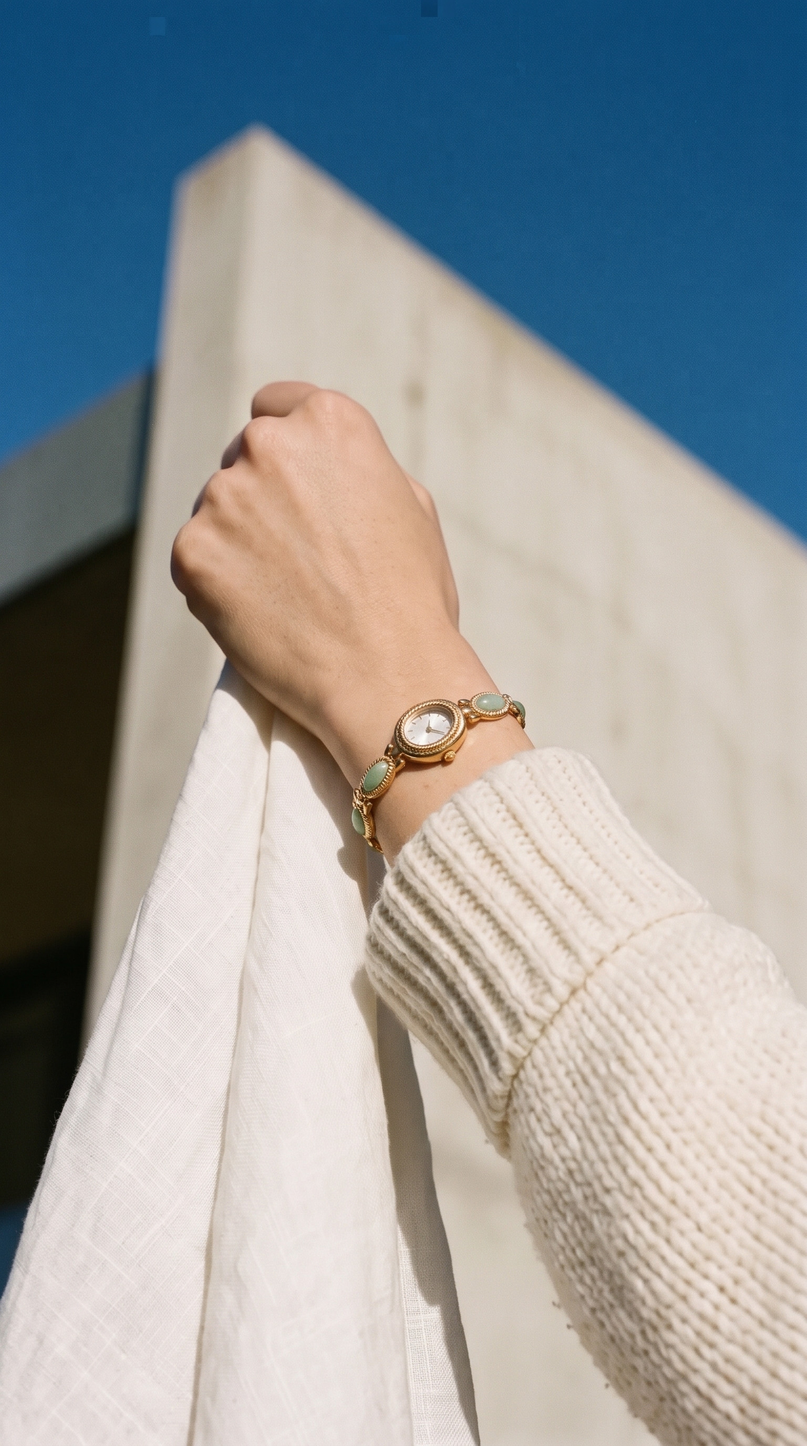
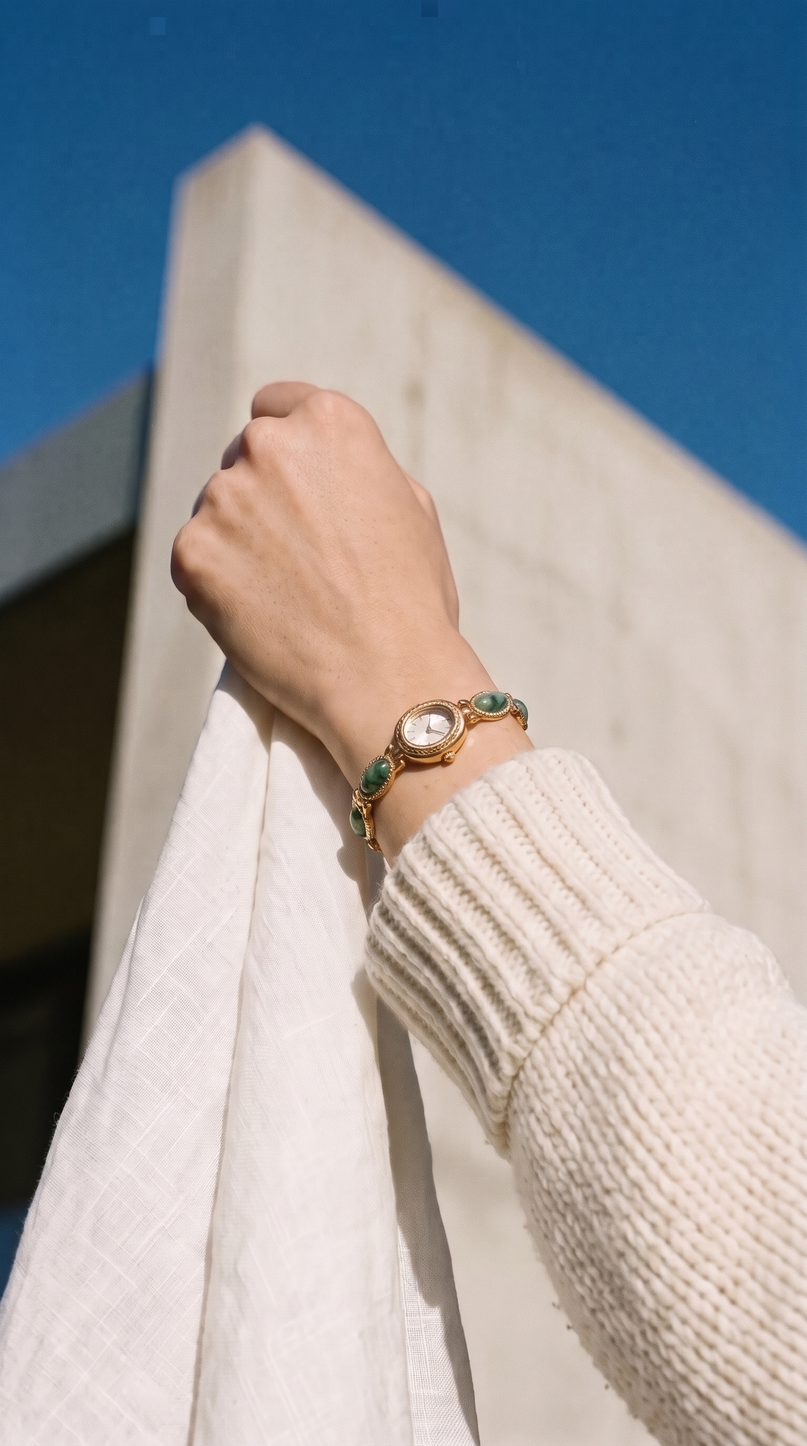
Piedras del Lune en verde medio-oscuro en todas las fotos (sin la crema) y NAIDU/QUARTZ de nuevo en el detalle

diff --git a/marca/esfera_texto.py b/marca/esfera_texto.py
@@ -1,7 +1,12 @@
+"""Escribe «NAIDU» y «QUARTZ» en la esfera de la foto de detalle (lune-verde-detalle), siguiendo su giro.
+    python marca/esfera_texto.py entrada.png salida.png   (C, v12 y u3 = centro y direcciones de esa foto)
+"""
 import cv2, numpy as np
 from PIL import Image, ImageDraw, ImageFont
 F = 'D:/LUNERIE/marca/fuentes/Jost.ttf'
-img = cv2.imread('prodD2.png')
+import sys
+ENT, SAL = (sys.argv[1], sys.argv[2]) if len(sys.argv) > 2 else ('prodD2.png', 'prodD3.png')
+img = cv2.imread(ENT)
 C = np.array([940., 1152.])                 # eje de las agujas
 v12 = np.array([1093., 1015.]) - C          # hacia las 12 (índice doble)
 u3 = np.array([1070., 1245.]) - C           # hacia las 3
@@ -33,5 +38,5 @@ out = img.astype(np.float32)
 for t, alto, peso, esp, k, al in (('NAIDU', 17, 500, 3.2, 0.42, 0.88), ('QUARTZ', 9, 400, 2.4, -0.47, 0.75)):
     a, col = texto(t, alto, peso, esp, C + k * v12, al)
     out = out * (1 - a) + col * a
-cv2.imwrite('prodD3.png', out.clip(0, 255).astype(np.uint8))
-Image.open('prodD3.png').crop((700, 700, 1400, 1450)).save('dial-detalle2.png')
+cv2.imwrite(SAL, out.clip(0, 255).astype(np.uint8))
+Image.open(SAL).crop((700, 700, 1400, 1450)).save('dial-detalle2.png')

diff --git a/CLAUDE.md b/CLAUDE.md
@@ -150,10 +150,12 @@
   (26-oct): modelo IA → **producto en niebla** → muñeca IA → **detalle** → **curva** → foto del proveedor → muñeca
   del proveedor → correa 18 cm; la de la modelo es la de la variante. Fotos de producto (`lune-verde-producto/
   detalle/curva.jpg`): la de niebla sale **editando la foto real del proveedor** (cambiar solo el fondo; así no
-  cambia el número de piedras) y las otras usan esa como referencia. **Cómo es el real:** 3 piedras a cada lado
-  (la del medio de arriba, color crema), en las puntas anillas trenzadas vacías (gancho + anilla arriba, anilla +
-  cierre abajo), piedras **verde jade claro con vetas blancas** (la IA tiende a malaquita oscura: corregirlo),
-  caja **ovalada** (la IA la hace redonda) y pequeña (esfera 12 mm). Edu prefiere la esfera **sin marca** en los
+  cambia el número de piedras) y las otras usan esa como referencia. **Cómo es el real:** 3 piedras a cada lado,
+  en las puntas anillas trenzadas vacías (gancho + anilla arriba, anilla + cierre abajo), caja **ovalada** (la IA
+  la hace redonda) y pequeña (esfera 12 mm). **Color que se vende (Edu, 26-oct): verde medio-oscuro con vetas
+  claras, las 6 iguales** (la foto del proveedor trae una crema: no; ni jade pálido ni malaquita a rayas). Todas
+  las fotos de la ficha y del collage corregidas a ese verde el 26-oct (ediciones de 2 créditos con la foto de
+  producto como referencia de color). Edu prefiere la esfera **sin marca** en los
   anuncios, pero en el **detalle** de producto sí quiere «NAIDU» y «QUARTZ» (escritos a mano con Jost siguiendo
   el giro de la esfera: `marca/esfera_texto.py` → `lune-verde-detalle.jpg`).
 - **Sección «historia» bajo la ficha (26-oct, en producción), como Olivia Jewelry:** foto grande del detalle (2:1 en
@@ -162,8 +164,10 @@
   piedras.*» + texto · collage 2×2 (perfil, curva, toalla, pelo). Código: `tema/codigo/snippets/lunerie-ficha.liquid`
   (`parte('historia', snippet='lunerie-ficha')` en `build.py`); solo sale en `reloj-lune`. Las fotos son **archivos
   de Shopify** con nombre fijo (`lune-editorial-*.jpg`, se leen con `images['…']`); para cambiar una, subir otra
-  con el mismo nombre. Las del collage son las de los anuncios **editadas con el reloj ~35 % más pequeño y piedras
-  jade claro** (`marca/fotos-ia/editorial/`), porque en los vídeos el reloj sale demasiado grande. El CSS de bolitas (`PIEDRAS` en `build.py`) sigue con los 6 colores: no molesta.
+  con el mismo nombre, o mejor `fileUpdate` con `originalSource` (cambia la imagen y conserva nombre y posición).
+  Las del collage son las de los anuncios **editadas con el reloj ~35 % más pequeño** (`marca/fotos-ia/editorial/`),
+  porque en los vídeos el reloj sale demasiado grande (los vídeos siguen así).
+  El CSS de bolitas (`PIEDRAS` en `build.py`) sigue con los 6 colores: no molesta.
   Fotos IA del azul hechas el 25-oct (`marca/fotos-ia/lune-azul-*.jpg`), aparcadas. `marca/naidu.py` escribe
   «NAIDU» en la esfera cuando la IA inventa letras (inpaint + Jost, con giro).
   **Plateado:** Edu encontró en Alibaba un proveedor con el mismo diseño en dorado y plata (verdes). Aparcado: solo
